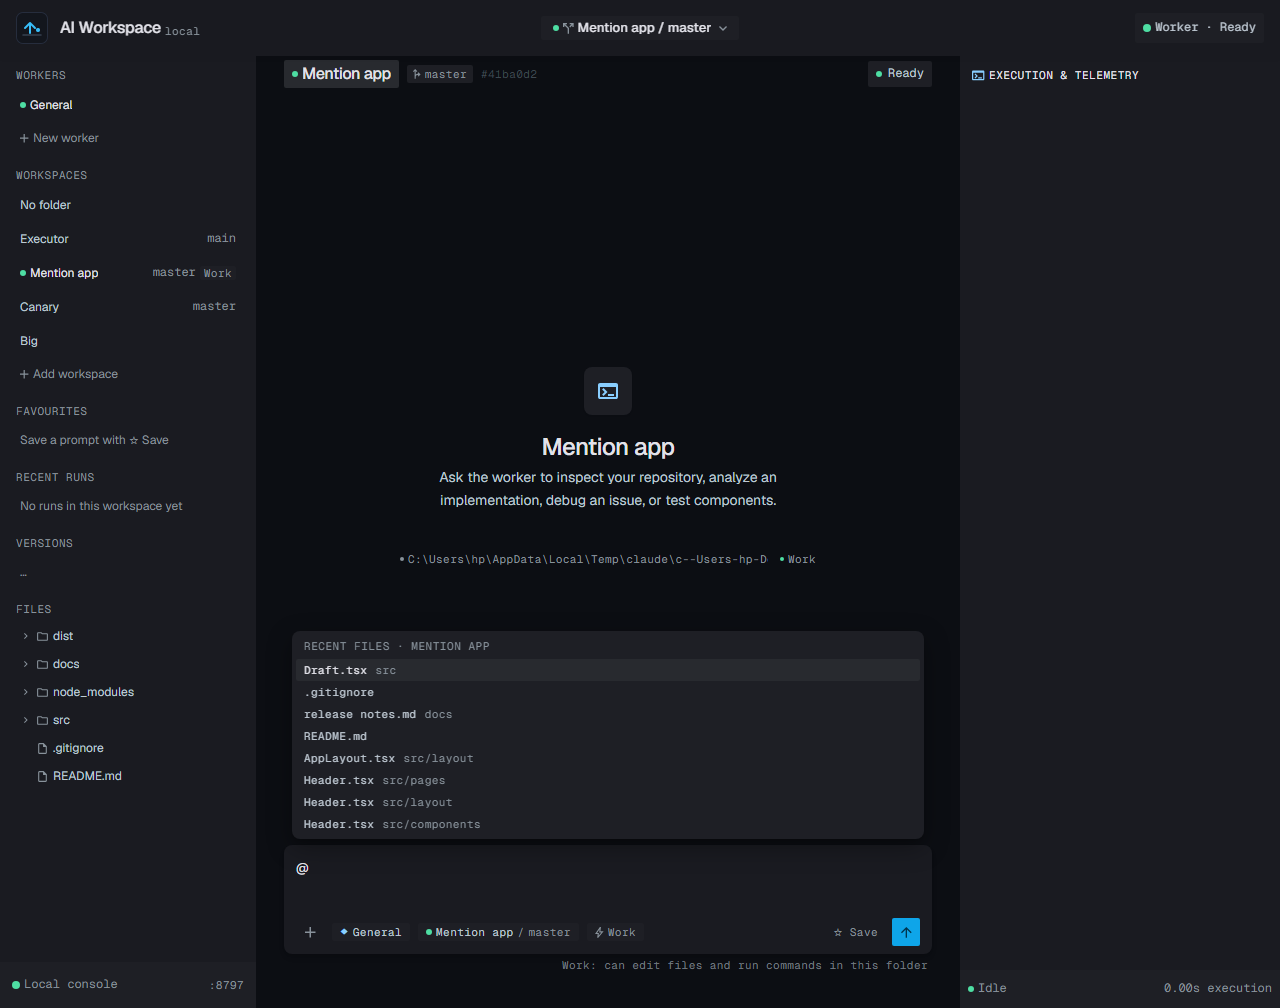
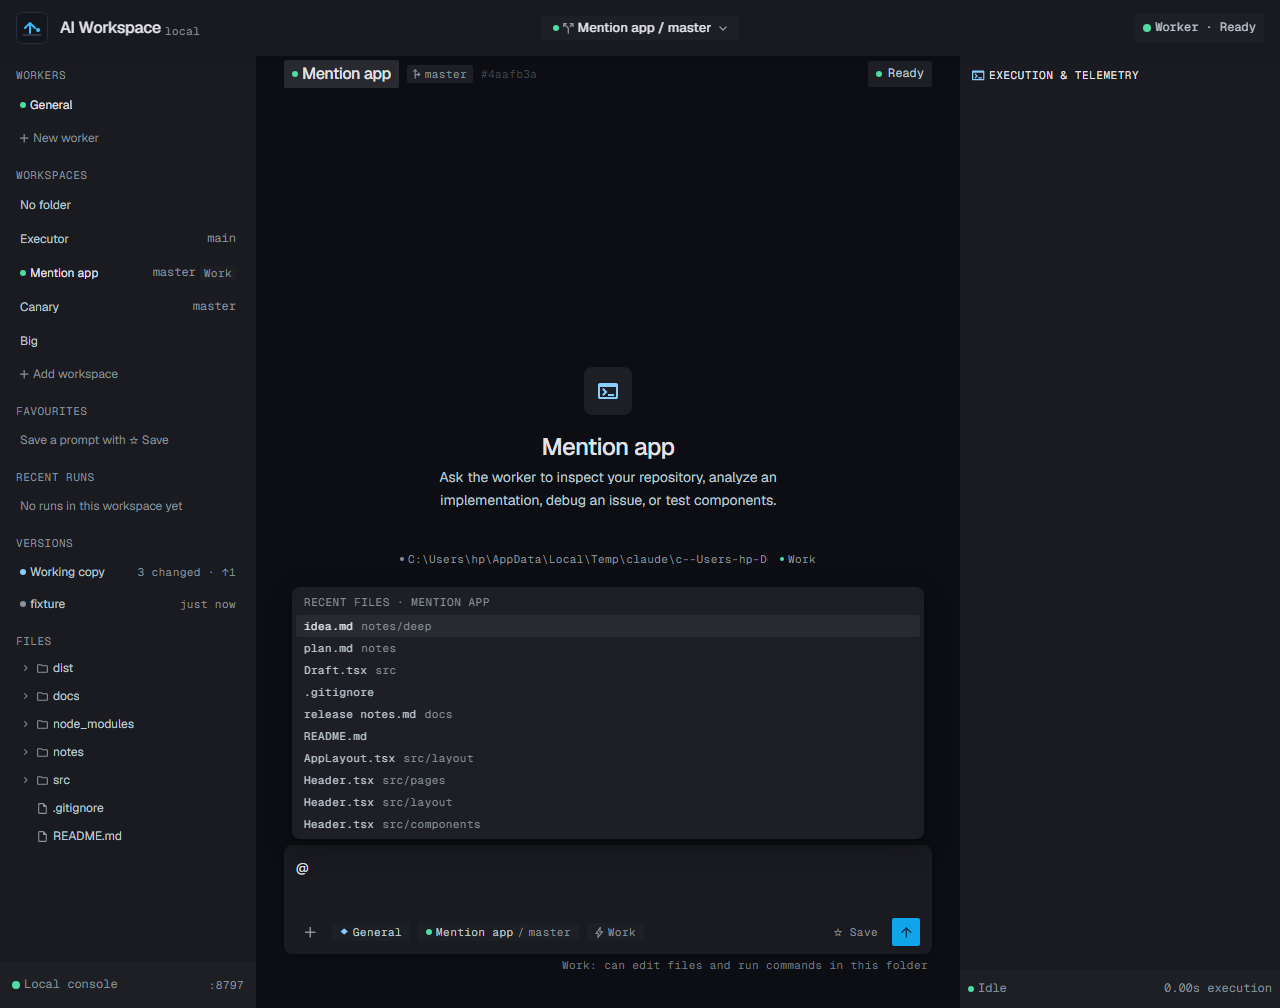
feat(workspace): @ lists files .gitignore hides too
A repo that keeps docs/ out of Git showed only its committed docs in the
@ picker. Files .gitignore hides are now listed after the rest (hidden
folders walked, links out still left out); dependency and build folders
(node_modules, dist, build, out, .next, .vercel, ...) stay out.

Tests: mentions-test.mjs 15/15 with a hidden notes/ folder and a hidden
junction out.

Changed region(s): [[0.2188, 0.5843, 0.7188, 0.6766], [0.0, 0.5536, 0.0938, 0.8304], [0.125, 0.5536, 0.1562, 0.5843]]

diff --git a/bench/workspace-ui/README.md b/bench/workspace-ui/README.md
@@ -314,7 +314,8 @@ Type `@` in the composer to pick files from the **selected workspace**. Each pic
 
 **Picking:**
 - **Where it searches:** the list comes from the server, so the browser never sees anything outside the workspace.
-  - In a Git repository it uses Git's view: tracked plus untracked files, honouring `.gitignore`. Untracked dependency and build folders (`node_modules`, `dist`, `build`, `.next`, …) are skipped even when `.gitignore` forgets them.
+  - In a Git repository it starts from Git's view (tracked plus untracked files), then adds the files `.gitignore` hides, such as a `docs/` folder kept out of the repo. They're still the person's files.
+  - Dependency and build folders (`node_modules`, `dist`, `build`, `out`, `.next`, `.vercel`, …) are always left out, ignored or not.
   - Outside a repository it walks the folder, skipping `.git` and the same folders, and doesn't follow links.
   - Every entry passes the file viewer's real-path containment, so a file or folder that links out (a junction or symlink) is left out.
 - **What it lists:** an empty `@` shows recent files. Text matches the file name first, then the path. `dir/` lists that folder, from the root or at any depth. No match shows "No matching files".
@@ -344,7 +345,7 @@ Type `@` in the composer to pick files from the **selected workspace**. Each pic
   - The person's message is shown exactly as typed.
 
 `mentions-test.mjs`: **15/15 passed** (`mentions-results.json`). It builds its own fixtures: a Git app with three `Header.tsx` files, untracked `node_modules`, an ignored `dist`, and a junction to an outside folder holding a canary. It also uses a 21,300-file plain folder and the Canary Inspect repo.
-1. `@` lists the Mention app's files and nothing ignored, dependency or linked out. (Canary's `jdir/*`, which Git lists through its junction, is also left out.)
+1. `@` lists the Mention app's files, including `notes/plan.md` and `notes/deep/idea.md`, which `.gitignore` hides. Nothing from `node_modules`, `dist` or a junction out is listed, including a junction that `.gitignore` hides. (Canary's `jdir/*`, which Git lists through its junction, is also left out.)
 2. Filtering: `Header` → the three `Header.tsx` files; `layout/App` → `AppLayout.tsx`; `src/layout/` → that folder; `zzqx` → "No matching files".
 3. Keyboard: ↓↓↑ selects the second row, Enter inserts it without sending, Escape keeps that `@` closed, a new `@` reopens, and Tab picks.
 4. Mouse, mid-sentence (`Look at @src/pages/Header.tsx  please`), and two mentions in one message.
@@ -369,4 +370,6 @@ Type `@` in the composer to pick files from the **selected workspace**. Each pic
     - **Executor repo:** about 357 files, about 70 ms cold, about 13 ms warm.
     - **21,300-file folder:** capped at 20,000 (`truncated: true`), about 600 ms cold, 6–26 ms per keystroke.
 
-**Note:** `@` lists what the Files tree lists, dotfiles included (`.env`, unless `.gitignore` excludes it). The worker could already read those with its own tools in both profiles. A mention gives it no new access.
+**Note:** `@` lists what the Files tree lists, dotfiles and ignored files included (for example `.env`). The worker could already read those with its own tools in both profiles. A mention gives it no new access.
+
+**Later (2026-10-06): files `.gitignore` hides are listed too.** In a real repo whose `.gitignore` has `/docs`, `docs/` showed only the 3 committed files. It now shows all 33, nested folders included, and dependency/build folders still stay out. That repo (3,820 files) indexes in about 0.4 s, then about 1–3 ms per keystroke.
